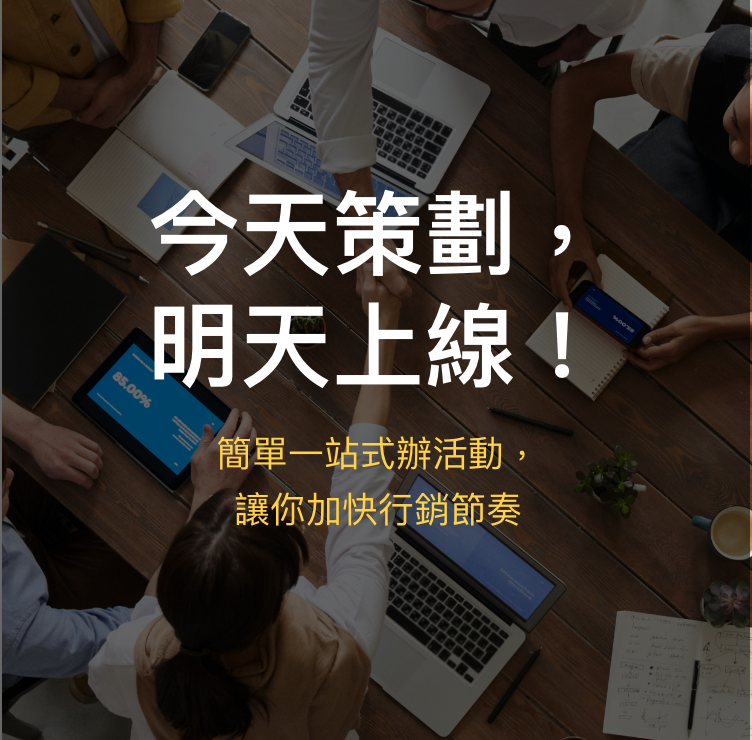
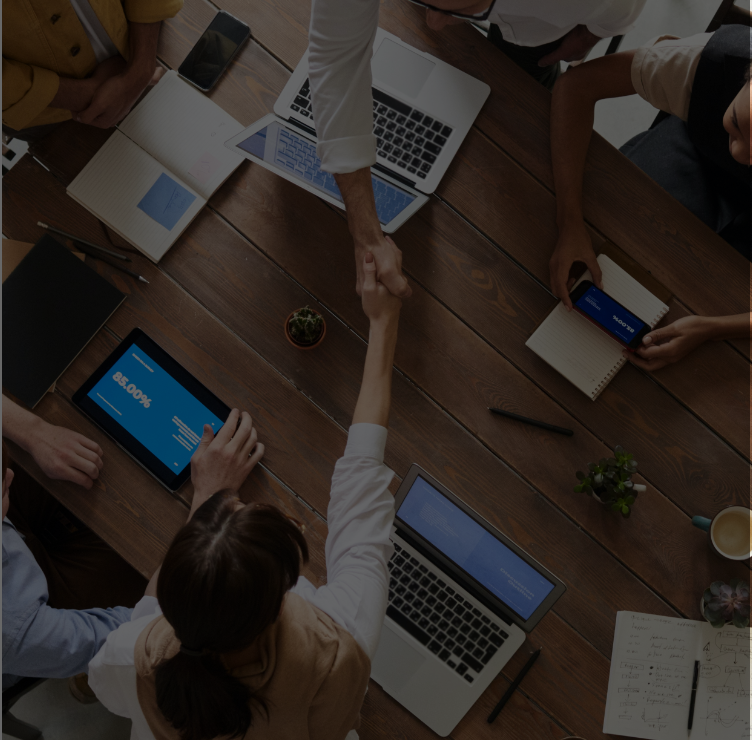
手機版banner

diff --git a/resources/views/front/home.blade.php b/resources/views/front/home.blade.php
@@ -8,15 +8,33 @@
   <!-- 手機 -->
   <div class="d-sm-block d-md-none uk-position-relative uk-visible-toggle uk-light"
     tabindex="-1" uk-slideshow="animation: fade;autoplay:true;autoplay-interval: 2500;pause-on-hover: true;">
-    <ul class="uk-slideshow-items" uk-height-viewport="offset-top: true; offset-bottom: 15">
+    <ul class="uk-slideshow-items">
       <li>
-        <img src="{{ asset('images/mobile/630@2x.png') }}" alt="手機輪播圖01" uk-cover uk-img>
+        <img src="{{ asset('images/mobile/630@2x.png') }}" alt="手機輪播圖01" style="height:370px;width:100%;" uk-img>
+        <div class="uk-position-left uk-position-small uk-text-left uk-light" style="display: flex;flex-direction: column;justify-content: center;align-items:center;width:100%;">
+            <h2 class="uk-margin-remove" style="font-size: 30px;padding-bottom:10px;line-height: 36px;text-align:center;">今天策劃，<br>明天上線！</h2>
+            <p class="uk-margin-remove" style="font-size: 18px;color:#FFD248;">
+              簡單一站式辦活動，<br>讓你加快行銷節奏
+            </p>
+        </div>
       </li>
       <li>
-        <img src="{{ asset('images/mobile/631@2x.png') }}" alt="手機輪播圖02" uk-cover uk-img>
+        <img src="{{ asset('images/mobile/631@2x.png') }}" style="height:370px;width:100%;" alt="手機輪播圖02" uk-img>
+        <div class="uk-position-left uk-position-small uk-text-left uk-light" style="display: flex;flex-direction: column;justify-content: center;align-items:center;width:100%;">
+            <h2 class="uk-margin-remove" style="font-size: 30px;padding-bottom:10px;line-height: 36px;text-align:center;">⽉付3000，百位<br>素⼈為你證⾔</h2>
+            <p class="uk-margin-remove" style="font-size: 18px;color:#FFD248;text-align:center;">
+            新朋友嗎？首次上架免費，<br>快去諮詢吧！
+            </p>
+        </div>
       </li>
       <li>
-        <img src="{{ asset('images/mobile/632@2x.png') }}" alt="手機輪播圖03" uk-cover uk-img>
+        <img src="{{ asset('images/mobile/632@2x.png') }}" style="height:370px;width:100%;" alt="手機輪播圖03" uk-img>
+        <div class="uk-position-left uk-position-small uk-text-left uk-light" style="display: flex;flex-direction: column;justify-content: center;align-items:center;width:100%;">
+            <h2 class="uk-margin-remove" style="font-size: 30px;padding-bottom:10px;line-height: 36px;text-align:center;">超過8000位 <br> KOC任您挑選</h2>
+            <p class="uk-margin-remove" style="font-size: 18px;color:#FFD248;text-align:center;">
+            真實⽣活化的素⼈⼤使，在朋友圈<br>具有影響⼒，粉絲數⾼於1000+！
+            </p>
+        </div>
       </li>
     </ul>
   </div>
@@ -228,12 +246,12 @@
           <div class="desc-text">
             因此對於品牌而言，長期在IG上耕耘，創造聲量，並且在重要的#Hashtag牆中露出自家的產品內容，建立屬於自己的#Hashtag牆，是提升與其他品牌競爭力的關鍵。
           </div>
-          <div class="free-program d-none d-md-block">
+          <div class="free-program">
             <a href="{{ url('contact') }}" target="_blank">諮詢免費方案</a>
           </div>
-          <div class="free-program d-sm-block d-md-none">
+          <!-- <div class="free-program d-sm-block d-md-none">
             <a href="#">申請活動上架</a>
-          </div>
+          </div> -->
         </div>
       </div>
     </div>
